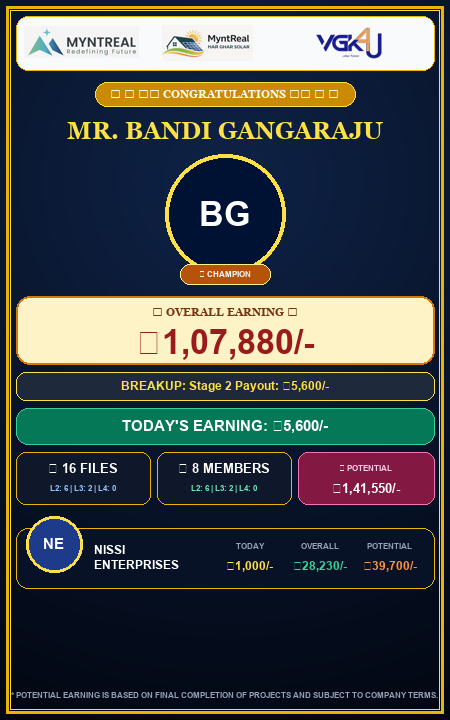
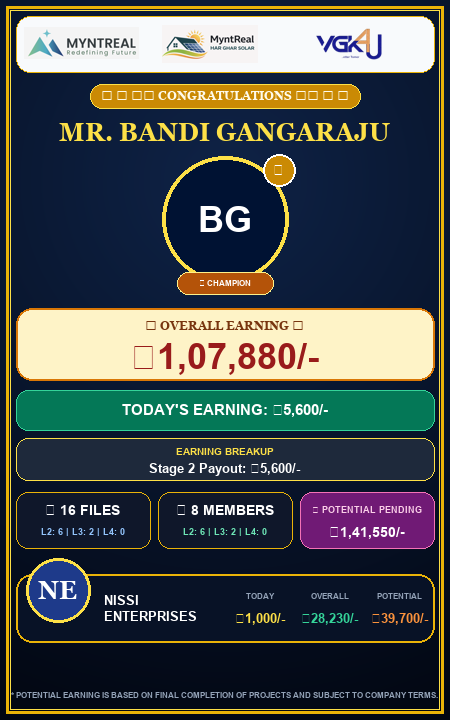
feat(poster): position Today Earning above Breakup with 2-line title/details layout, label POTENTIAL PENDING, enlarge Senior photo to 64px with bigger text, add 3D Champion Trophy badge, and eliminate empty bottom space

Changed region(s): [[0.0311, 0.275, 0.9644, 0.8861], [0.0622, 0.0306, 0.9333, 0.3361], [0.4356, 0.275, 0.56, 0.3361]]

diff --git a/MyntReal_Latest/frontend/staff_vgk_members.html b/MyntReal_Latest/frontend/staff_vgk_members.html
@@ -7273,44 +7273,8 @@ function _renderCommDetailTable(partnerId) {
               
               <div id="customColorsContainer" style="display:none;flex-direction:column;gap:6px;background:#f3f4f6;padding:8px;border-radius:6px;border:1px solid #e5e7eb">
                 <div style="display:flex;justify-content:space-between;align-items:center">
-                  <span style="font-size:10px;color:#374151">Canvas BG:</span>
-                  <input type="color" id="postColorBg" value="#0A0F1D" oninput="changeCustomColors()" style="border:none;width:32px;height:20px;cursor:pointer">
-                </div>
-                <div style="display:flex;justify-content:space-between;align-items:center">
-                  <span style="font-size:10px;color:#374151">Card BG:</span>
-                  <input type="color" id="postColorCard" value="#131B2E" oninput="changeCustomColors()" style="border:none;width:32px;height:20px;cursor:pointer">
-                </div>
-                <div style="display:flex;justify-content:space-between;align-items:center">
-                  <span style="font-size:10px;color:#374151">Text Color:</span>
-                  <input type="color" id="postColorText" value="#F8FAFC" oninput="changeCustomColors()" style="border:none;width:32px;height:20px;cursor:pointer">
-                </div>
-                <div style="display:flex;justify-content:space-between;align-items:center">
-                  <span style="font-size:10px;color:#374151">Accent/Gold:</span>
-                  <input type="color" id="postColorAccent" value="#fbbf24" oninput="changeCustomColors()" style="border:none;width:32px;height:20px;cursor:pointer">
-                </div>
-                <div style="display:flex;justify-content:space-between;align-items:center">
-                  <span style="font-size:10px;color:#374151">Border Gold:</span>
-                  <input type="color" id="postColorBorder" value="#d4af37" oninput="changeCustomColors()" style="border:none;width:32px;height:20px;cursor:pointer">
-                </div>
-              </div>
-              
-              <div>
-                <label style="font-size:10px;font-weight:600;color:#6b7280;display:block;margin-bottom:2px">IMAGES &amp; STYLING INSTRUCTIONS</label>
-                <textarea id="postImageInstructions" oninput="updatePoster()" style="width:100%;height:60px;padding:7px 9px;font-size:11.5px;border:1.5px solid #d1d5db;border-radius:6px;outline:none;resize:none" placeholder="e.g. Use transparent PNG photos. Recommended size: 1080x1920."></textarea>
-              </div>
-            </div>
-          </div>
-        </div>
-      </div>
-      
-      <!-- Right Pane: Live Poster Preview -->
-      <div style="flex:1;background:#131B2E;display:flex;align-items:center;justify-content:center;padding:24px;overflow:auto;position:relative">
-        <div id="posterSpinner" style="display:none;position:absolute;inset:0;background:rgba(0,0,0,0.6);z-index:10;align-items:center;justify-content:center;color:white;font-size:14px">
-          <div style="text-align:center"><i class="fas fa-circle-notch fa-spin fa-2x mb-2"></i><div>Analyzing and populating values…</div></div>
-        </div>
-        
-        <!-- Renderable Canvas Wrapper - Fresh Pure HTML/CSS Luxury Celebration Design with Fireworks, Actual Logos & Pop-Out Senior Avatar (450x720px) -->
-        <div id="posterCanvasWrapper" style="width:450px;height:720px;background:radial-gradient(circle at 50% 25%, #0f2347 0%, #061126 60%, #020610 100%);border:5px double #eab308;border-radius:20px;box-shadow:0 20px 60px rgba(0,0,0,0.9), 0 0 40px rgba(234,179,8,0.35);position:relative;box-sizing:border-box;color:#ffffff;font-family:'Segoe UI',Roboto,Helvetica,sans-serif;user-select:none;flex-shrink:0;padding:16px;display:flex;flex-direction:column;align-items:center;overflow:hidden">
+                  <span style="font-siz        <!-- Renderable Canvas Wrapper - Pristine Ultra-Professional Celebration Poster (450x720px) -->
+        <div id="posterCanvasWrapper" style="width:450px;height:720px;background:radial-gradient(circle at 50% 25%, #0f2347 0%, #061126 60%, #020610 100%);border:5px double #eab308;border-radius:20px;box-shadow:0 20px 60px rgba(0,0,0,0.9), 0 0 40px rgba(234,179,8,0.35);position:relative;box-sizing:border-box;color:#ffffff;font-family:'Segoe UI',Roboto,Helvetica,sans-serif;user-select:none;flex-shrink:0;padding:16px 18px;display:flex;flex-direction:column;align-items:center;overflow:hidden">
           
           <div id="prevName" style="display:none"></div>
           <div id="prevBonusDesc" style="display:none"></div>
@@ -7319,135 +7283,141 @@ function _renderCommDetailTable(partnerId) {
           <div id="prevImageInstructions" style="display:none"></div>
 
           <!-- Background Sparkle Particles Overlay -->
-          <div style="position:absolute;inset:0;background-image:radial-gradient(2px 2px at 20px 30px, #ffd700, transparent), radial-gradient(2px 2px at 40px 70px, #ffffff, transparent), radial-gradient(1.5px 1.5px at 90px 40px, #fde047, transparent), radial-gradient(2px 2px at 160px 120px, #ffffff, transparent), radial-gradient(1.5px 1.5px at 230px 80px, #ffd700, transparent), radial-gradient(2px 2px at 310px 50px, #ffffff, transparent), radial-gradient(2px 2px at 380px 110px, #fde047, transparent), radial-gradient(1.5px 1.5px at 420px 30px, #ffffff, transparent), radial-gradient(2px 2px at 50px 250px, #ffd700, transparent), radial-gradient(2px 2px at 400px 280px, #ffffff, transparent), radial-gradient(1.5px 1.5px at 30px 500px, #fde047, transparent), radial-gradient(2px 2px at 420px 520px, #ffffff, transparent);opacity:0.6;pointer-events:none;z-index:1"></div>
+          <div style="position:absolute;inset:0;background-image:radial-gradient(2px 2px at 20px 30px, #ffd700, transparent), radial-gradient(2px 2px at 40px 70px, #ffffff, transparent), radial-gradient(1.5px 1.5px at 90px 40px, #fde047, transparent), radial-gradient(2px 2px at 160px 120px, #ffffff, transparent), radial-gradient(1.5px 1.5px at 230px 80px, #ffd700, transparent), radial-gradient(2px 2px at 310px 50px, #ffffff, transparent), radial-gradient(2px 2px at 380px 110px, #fde047, transparent), radial-gradient(1.5px 1.5px at 420px 30px, #ffffff, transparent), radial-gradient(2px 2px at 50px 250px, #ffd700, transparent), radial-gradient(2px 2px at 400px 280px, #ffffff, transparent), radial-gradient(1.5px 1.5px at 30px 500px, #fde047, transparent), radial-gradient(2px 2px at 420px 520px, #ffffff, transparent);opacity:0.65;pointer-events:none;z-index:1"></div>
 
-          <!-- Firework Bursts (SVG Fireworks Graphics) -->
-          <svg style="position:absolute;top:18px;left:8px;width:75px;height:75px;pointer-events:none;z-index:1" viewBox="0 0 100 100">
-            <g stroke="#fde047" stroke-width="2.5" stroke-linecap="round">
-              <line x1="50" y1="10" x2="50" y2="30"/><line x1="50" y1="70" x2="50" y2="90"/>
-              <line x1="10" y1="50" x2="30" y2="50"/><line x1="70" y1="50" x2="90" y2="50"/>
-              <line x1="22" y1="22" x2="36" y2="36"/><line x1="64" y1="64" x2="78" y2="78"/>
-              <line x1="22" y1="78" x2="36" y2="64"/><line x1="64" y1="36" x2="78" y2="22"/>
+          <!-- Prominent Firework Bursts (SVG Fireworks Graphics flanking Photo & Header) -->
+          <svg style="position:absolute;top:75px;left:6px;width:90px;height:90px;pointer-events:none;z-index:1;opacity:0.9" viewBox="0 0 100 100">
+            <g stroke="#fde047" stroke-width="2.8" stroke-linecap="round">
+              <line x1="50" y1="5" x2="50" y2="28"/><line x1="50" y1="72" x2="50" y2="95"/>
+              <line x1="5" y1="50" x2="28" y2="50"/><line x1="72" y1="50" x2="95" y2="50"/>
+              <line x1="18" y1="18" x2="34" y2="34"/><line x1="66" y1="66" x2="82" y2="82"/>
+              <line x1="18" y1="82" x2="34" y2="66"/><line x1="66" y1="34" x2="82" y2="18"/>
             </g>
-            <circle cx="50" cy="50" r="5" fill="#eab308"/>
-            <circle cx="50" cy="18" r="3" fill="#ffffff"/><circle cx="50" cy="82" r="3" fill="#ffffff"/>
-            <circle cx="18" cy="50" r="3" fill="#ffffff"/><circle cx="82" cy="50" r="3" fill="#ffffff"/>
+            <circle cx="50" cy="50" r="6" fill="#eab308"/>
+            <circle cx="50" cy="14" r="3.5" fill="#ffffff"/><circle cx="50" cy="86" r="3.5" fill="#ffffff"/>
+            <circle cx="14" cy="50" r="3.5" fill="#ffffff"/><circle cx="86" cy="50" r="3.5" fill="#ffffff"/>
           </svg>
 
-          <svg style="position:absolute;top:18px;right:8px;width:75px;height:75px;pointer-events:none;z-index:1" viewBox="0 0 100 100">
-            <g stroke="#fbbf24" stroke-width="2.5" stroke-linecap="round">
-              <line x1="50" y1="10" x2="50" y2="30"/><line x1="50" y1="70" x2="50" y2="90"/>
-              <line x1="10" y1="50" x2="30" y2="50"/><line x1="70" y1="50" x2="90" y2="50"/>
-              <line x1="22" y1="22" x2="36" y2="36"/><line x1="64" y1="64" x2="78" y2="78"/>
-              <line x1="22" y1="78" x2="36" y2="64"/><line x1="64" y1="36" x2="78" y2="22"/>
+          <svg style="position:absolute;top:75px;right:6px;width:90px;height:90px;pointer-events:none;z-index:1;opacity:0.9" viewBox="0 0 100 100">
+            <g stroke="#fbbf24" stroke-width="2.8" stroke-linecap="round">
+              <line x1="50" y1="5" x2="50" y2="28"/><line x1="50" y1="72" x2="50" y2="95"/>
+              <line x1="5" y1="50" x2="28" y2="50"/><line x1="72" y1="50" x2="95" y2="50"/>
+              <line x1="18" y1="18" x2="34" y2="34"/><line x1="66" y1="66" x2="82" y2="82"/>
+              <line x1="18" y1="82" x2="34" y2="66"/><line x1="66" y1="34" x2="82" y2="18"/>
             </g>
-            <circle cx="50" cy="50" r="5" fill="#f59e0b"/>
-            <circle cx="50" cy="18" r="3" fill="#ffffff"/><circle cx="50" cy="82" r="3" fill="#ffffff"/>
-            <circle cx="18" cy="50" r="3" fill="#ffffff"/><circle cx="82" cy="50" r="3" fill="#ffffff"/>
+            <circle cx="50" cy="50" r="6" fill="#f59e0b"/>
+            <circle cx="50" cy="14" r="3.5" fill="#ffffff"/><circle cx="50" cy="86" r="3.5" fill="#ffffff"/>
+            <circle cx="14" cy="50" r="3.5" fill="#ffffff"/><circle cx="86" cy="50" r="3.5" fill="#ffffff"/>
           </svg>
 
           <!-- Content Layer -->
           <div style="position:relative;z-index:2;width:100%;display:flex;flex-direction:column;align-items:center;height:100%">
             
-            <!-- 1. Large Header Bar with Actual Logos (Left: Myntreal, Middle: Har Ghar Solar, Right: VGK4U) -->
-            <div style="width:100%;height:54px;background:linear-gradient(135deg, rgba(255,255,255,0.98), rgba(248,250,252,0.94));border:1.5px solid rgba(234,179,8,0.7);border-radius:12px;padding:4px 12px;display:flex;justify-content:space-between;align-items:center;margin-bottom:10px;box-shadow:0 4px 15px rgba(0,0,0,0.35)">
+            <!-- 1. Header Bar with 3 Actual Logos (Left: Myntreal, Middle: Har Ghar Solar, Right: VGK4U) -->
+            <div style="width:100%;height:56px;background:linear-gradient(135deg, rgba(255,255,255,0.98), rgba(248,250,252,0.95));border:1.5px solid rgba(234,179,8,0.75);border-radius:14px;padding:4px 14px;display:flex;justify-content:space-between;align-items:center;margin-bottom:10px;box-shadow:0 4px 18px rgba(0,0,0,0.4)">
               <img src="/assets/logos/myntreal_logo_new.png" style="height:34px;max-width:115px;object-fit:contain" alt="MYNTREAL">
-              <img src="/assets/logos/hgs-logo.png" style="height:36px;max-width:125px;object-fit:contain" alt="HAR GHAR SOLAR">
+              <img src="/assets/logos/hgs-logo.png" style="height:38px;max-width:125px;object-fit:contain" alt="HAR GHAR SOLAR">
               <img src="/assets/logos/vgk4u-logo.png" style="height:34px;max-width:105px;object-fit:contain" alt="VGK4U">
             </div>
 
             <!-- 2. Congratulations Ribbon Badge with Celebration Streamers -->
-            <div style="background:linear-gradient(135deg, #854d0e 0%, #ca8a04 50%, #854d0e 100%);border:1.5px solid #fde047;color:#fffbeb;font-family:Georgia,serif;font-size:11.5px;font-weight:900;letter-spacing:1.8px;padding:4px 18px;border-radius:30px;box-shadow:0 4px 14px rgba(202,138,4,0.45);margin-bottom:8px;text-transform:uppercase">🎉 👑 ★★ CONGRATULATIONS ★★ 👑 🎉</div>
+            <div style="background:linear-gradient(135deg, #854d0e 0%, #ca8a04 50%, #854d0e 100%);border:1.5px solid #fde047;color:#fffbeb;font-family:Georgia,serif;font-size:12px;font-weight:900;letter-spacing:2px;padding:4.5px 22px;border-radius:30px;box-shadow:0 4px 15px rgba(202,138,4,0.5);margin-bottom:8px;text-transform:uppercase">🎉 👑 ★★ CONGRATULATIONS ★★ 👑 🎉</div>
 
             <!-- 3. Member Name (3D Gold Typography) -->
-            <div style="width:100%;text-align:center;margin-bottom:8px">
-              <div id="prevSubtitle" style="font-size:25px;font-weight:950;background:linear-gradient(180deg,#ffffff 0%,#fef08a 45%,#eab308 100%);-webkit-background-clip:text;-webkit-text-fill-color:transparent;filter:drop-shadow(0 2px 8px rgba(234,179,8,0.6));font-family:Georgia,serif;text-transform:uppercase;letter-spacing:0.8px;line-height:1.2">MR. BANDI GANGARAJU</div>
+            <div style="width:100%;text-align:center;margin-bottom:10px">
+              <div id="prevSubtitle" style="font-size:26px;font-weight:950;background:linear-gradient(180deg,#ffffff 0%,#fef08a 45%,#eab308 100%);-webkit-background-clip:text;-webkit-text-fill-color:transparent;filter:drop-shadow(0 2px 8px rgba(234,179,8,0.65));font-family:Georgia,serif;text-transform:uppercase;letter-spacing:0.8px;line-height:1.2">MR. BANDI GANGARAJU</div>
             </div>
 
-            <!-- 4. Member Profile Photo inside Golden Wreath Ring -->
-            <div style="position:relative;width:120px;height:120px;margin-bottom:12px">
-              <div style="width:120px;height:120px;border-radius:50%;border:4px solid #fde047;overflow:hidden;background:#001233;box-shadow:0 0 28px rgba(234,179,8,0.7);display:flex;align-items:center;justify-content:center">
+            <!-- 4. Member Profile Photo inside Golden Wreath Ring with Champion Trophy -->
+            <div style="position:relative;width:126px;height:126px;margin-bottom:14px">
+              <div style="width:126px;height:126px;border-radius:50%;border:4px solid #fde047;overflow:hidden;background:#001233;box-shadow:0 0 30px rgba(234,179,8,0.75);display:flex;align-items:center;justify-content:center">
                 <img id="prevImg" src="" crossorigin="anonymous" style="width:100%;height:100%;object-fit:cover;object-position:center 20%;display:none">
-                <div id="prevAvatar" style="width:100%;height:100%;display:flex;align-items:center;justify-content:center;background:linear-gradient(135deg,#1d4ed8,#7c3aed);color:white;font-size:38px;font-weight:900">BG</div>
+                <div id="prevAvatar" style="width:100%;height:100%;display:flex;align-items:center;justify-content:center;background:linear-gradient(135deg,#1d4ed8,#7c3aed);color:white;font-size:40px;font-weight:900">BG</div>
               </div>
-              <div style="position:absolute;bottom:-7px;left:50%;transform:translateX(-50%);background:linear-gradient(135deg,#b45309,#f59e0b,#b45309);border:1px solid #fef08a;color:#ffffff;font-size:9.5px;font-weight:900;padding:2px 14px;border-radius:12px;letter-spacing:1.2px;white-space:nowrap;box-shadow:0 3px 8px rgba(0,0,0,0.5)">🏆 CHAMPION</div>
+
+              <!-- 3D Champion Trophy Badge Overlay on Top-Right -->
+              <div style="position:absolute;top:-4px;right:-8px;background:radial-gradient(circle,#fef08a,#ca8a04);border:1.5px solid #ffffff;border-radius:50%;width:34px;height:34px;display:flex;align-items:center;justify-content:center;box-shadow:0 3px 10px rgba(0,0,0,0.6);font-size:18px">🏆</div>
+
+              <!-- Champion Pill at Bottom -->
+              <div style="position:absolute;bottom:-7px;left:50%;transform:translateX(-50%);background:linear-gradient(135deg,#b45309,#f59e0b,#b45309);border:1px solid #fef08a;color:#ffffff;font-size:9.5px;font-weight:900;padding:2.5px 16px;border-radius:12px;letter-spacing:1.2px;white-space:nowrap;box-shadow:0 3px 10px rgba(0,0,0,0.6)">🏆 CHAMPION</div>
             </div>
 
             <!-- 5. Overall Earning Plaque (Centerpiece) -->
-            <div style="width:100%;background:linear-gradient(135deg, #fffbeb 0%, #fef3c7 40%, #fde047 100%);border:2.5px solid #d97706;border-radius:14px;padding:8px 14px;text-align:center;margin-bottom:8px;box-shadow:0 8px 25px rgba(0,0,0,0.4), inset 0 0 10px rgba(255,255,255,0.8)">
-              <div style="color:#78350f;font-size:10.5px;font-weight:900;letter-spacing:1.5px;text-transform:uppercase;margin-bottom:1px">★ OVERALL EARNING ★</div>
-              <div id="prevHighlight" style="color:#991b1b;font-size:34px;font-weight:950;line-height:1;text-shadow:0 1px 2px rgba(255,255,255,0.9);letter-spacing:-0.5px">₹1,07,880/-</div>
+            <div style="width:100%;background:linear-gradient(135deg, #fffbeb 0%, #fef3c7 40%, #fde047 100%);border:2.5px solid #d97706;border-radius:16px;padding:9px 16px;text-align:center;margin-bottom:10px;box-shadow:0 8px 25px rgba(0,0,0,0.45), inset 0 0 10px rgba(255,255,255,0.85)">
+              <div style="color:#78350f;font-size:11px;font-weight:900;letter-spacing:1.5px;text-transform:uppercase;margin-bottom:2px">★ OVERALL EARNING ★</div>
+              <div id="prevHighlight" style="color:#991b1b;font-size:36px;font-weight:950;line-height:1;text-shadow:0 1px 2px rgba(255,255,255,0.9);letter-spacing:-0.5px">₹1,07,880/-</div>
             </div>
 
-            <!-- 6. Earning-Wise Breakup Section (Positioned ABOVE Today's Earning) -->
-            <div style="width:100%;background:rgba(254,240,138,0.12);border:1px dashed rgba(251,191,36,0.7);border-radius:10px;padding:4px 10px;margin-bottom:8px;text-align:center;display:flex;align-items:center;justify-content:center;gap:6px">
-              <span style="font-size:9px;font-weight:900;color:#fde047;text-transform:uppercase;letter-spacing:0.8px">BREAKUP:</span>
-              <span id="prevTodayPayout" style="font-size:11.5px;font-weight:900;color:#ffffff">Stage 2 Payout: ₹5,600/-</span>
+            <!-- 6. Today's Earning Banner Card (Moved ABOVE Breakup) -->
+            <div style="width:100%;background:linear-gradient(135deg, #064e3b 0%, #047857 50%, #065f46 100%);border:1.5px solid #34d399;border-radius:12px;padding:8px 14px;text-align:center;margin-bottom:8px;box-shadow:0 4px 16px rgba(4,120,87,0.45)">
+              <div style="font-size:15px;font-weight:950;color:#ffffff;text-transform:uppercase;letter-spacing:0.5px"><span id="prevTodayLabelText">Today's Earning</span>: <span id="prevTotalToday">₹5,600/-</span></div>
             </div>
 
-            <!-- 7. Today's Earning Banner Card -->
-            <div style="width:100%;background:linear-gradient(135deg, #064e3b 0%, #047857 50%, #065f46 100%);border:1.5px solid #34d399;border-radius:12px;padding:7px 12px;text-align:center;margin-bottom:10px;box-shadow:0 4px 15px rgba(4,120,87,0.4)">
-              <div style="font-size:14.5px;font-weight:900;color:#ffffff;text-transform:uppercase;letter-spacing:0.5px"><span id="prevTodayLabelText">Today's Earning</span>: <span id="prevTotalToday">₹5,600/-</span></div>
+            <!-- 7. Earning-Wise Breakup Section (Positioned BELOW Today's Earning, 2-Line Layout) -->
+            <div style="width:100%;background:rgba(254,240,138,0.12);border:1px dashed rgba(251,191,36,0.75);border-radius:12px;padding:6px 12px;margin-bottom:10px;text-align:center;display:flex;flex-direction:column;align-items:center;justify-content:center">
+              <div style="font-size:10px;font-weight:900;color:#fde047;text-transform:uppercase;letter-spacing:1px;margin-bottom:2px">EARNING BREAKUP</div>
+              <div id="prevTodayPayout" style="font-size:13px;font-weight:900;color:#ffffff">Stage 2 Payout: ₹5,600/-</div>
             </div>
 
-            <!-- 8. 3-Column Metrics Grid (FILES | MEMBERS | POTENTIAL VALUATION) -->
-            <div style="width:100%;display:grid;grid-template-columns:1fr 1fr 1.15fr;gap:7px;margin-bottom:10px">
+            <!-- 8. 3-Column Metrics Grid (FILES | MEMBERS | POTENTIAL PENDING) -->
+            <div style="width:100%;display:grid;grid-template-columns:1fr 1fr 1.15fr;gap:8px;margin-bottom:14px">
               <!-- Files Card -->
-              <div style="background:rgba(15,23,42,0.85);border:1.5px solid rgba(234,179,8,0.45);border-radius:12px;padding:7px 5px;text-align:center">
-                <div id="prevFiles" style="font-size:13px;font-weight:950;color:#ffffff;margin-bottom:1px">16 FILES</div>
-                <div id="prevTeamBreakupFiles" style="font-size:8px;font-weight:800;color:#93c5fd">L2: 6 | L3: 2 | L4: 0</div>
+              <div style="background:rgba(15,23,42,0.88);border:1.5px solid rgba(234,179,8,0.5);border-radius:12px;padding:8px 6px;text-align:center">
+                <div id="prevFiles" style="font-size:13.5px;font-weight:950;color:#ffffff;margin-bottom:2px">16 FILES</div>
+                <div id="prevTeamBreakupFiles" style="font-size:8.5px;font-weight:800;color:#93c5fd">L2: 6 | L3: 2 | L4: 0</div>
               </div>
               
               <!-- Members Card -->
-              <div style="background:rgba(15,23,42,0.85);border:1.5px solid rgba(234,179,8,0.45);border-radius:12px;padding:7px 5px;text-align:center">
-                <div id="prevOverall" style="font-size:13px;font-weight:950;color:#ffffff;margin-bottom:1px">8 MEMBERS</div>
-                <div id="prevTeamBreakup" style="font-size:8px;font-weight:800;color:#6ee7b7">L2: 6 | L3: 2 | L4: 0</div>
+              <div style="background:rgba(15,23,42,0.88);border:1.5px solid rgba(234,179,8,0.5);border-radius:12px;padding:8px 6px;text-align:center">
+                <div id="prevOverall" style="font-size:13.5px;font-weight:950;color:#ffffff;margin-bottom:2px">8 MEMBERS</div>
+                <div id="prevTeamBreakup" style="font-size:8.5px;font-weight:800;color:#6ee7b7">L2: 6 | L3: 2 | L4: 0</div>
               </div>
 
-              <!-- Potential Valuation Card (Placed beside Files & Members) -->
-              <div style="background:linear-gradient(135deg, rgba(112,26,117,0.85), rgba(131,24,67,0.85));border:1.5px solid #f472b6;border-radius:12px;padding:7px 5px;text-align:center">
-                <div style="font-size:8px;font-weight:900;color:#fbcfe8;text-transform:uppercase;letter-spacing:0.5px">💰 POTENTIAL</div>
-                <div id="prevPotential" style="font-size:13px;font-weight:950;color:#ffffff;margin-top:1px">₹1,41,550/-</div>
+              <!-- Potential Pending Card (Labeled POTENTIAL PENDING) -->
+              <div style="background:linear-gradient(135deg, rgba(112,26,117,0.88), rgba(131,24,67,0.88));border:1.5px solid #f472b6;border-radius:12px;padding:8px 6px;text-align:center">
+                <div style="font-size:8.5px;font-weight:900;color:#fbcfe8;text-transform:uppercase;letter-spacing:0.5px">💰 POTENTIAL PENDING</div>
+                <div id="prevPotential" style="font-size:13.5px;font-weight:950;color:#ffffff;margin-top:2px">₹1,41,550/-</div>
               </div>
             </div>
 
-            <!-- 9. Senior Referrer Card Row with Pop-Out Senior Avatar -->
-            <div id="prevSeniorRow" style="position:relative;width:100%;background:rgba(8,18,38,0.92);border:1.5px solid rgba(234,179,8,0.6);border-radius:14px;padding:9px 10px 9px 74px;display:flex;align-items:center;justify-content:space-between;margin-top:14px;margin-bottom:6px;min-height:60px;box-shadow:0 6px 20px rgba(0,0,0,0.5)">
+            <!-- 9. Senior Referrer Card Row with 64px Pop-Out Senior Avatar & Larger Typography -->
+            <div id="prevSeniorRow" style="position:relative;width:100%;background:rgba(8,18,38,0.95);border:1.5px solid rgba(234,179,8,0.65);border-radius:16px;padding:12px 12px 12px 86px;display:flex;align-items:center;justify-content:space-between;margin-top:16px;margin-bottom:12px;min-height:68px;box-shadow:0 8px 25px rgba(0,0,0,0.6)">
               
-              <!-- Pop-Out Senior Photo / Avatar Circle (56px x 56px overlapping top border) -->
-              <div style="position:absolute;top:-12px;left:10px;width:56px;height:56px;border-radius:50%;background:#1e3a8a;border:3px solid #fde047;box-shadow:0 4px 16px rgba(251,191,36,0.6);display:flex;align-items:center;justify-content:center;z-index:10;overflow:hidden">
+              <!-- Pop-Out Senior Photo / Avatar Circle (64px x 64px overlapping top border) -->
+              <div style="position:absolute;top:-14px;left:12px;width:64px;height:64px;border-radius:50%;background:#1e3a8a;border:3.5px solid #fde047;box-shadow:0 4px 18px rgba(251,191,36,0.7);display:flex;align-items:center;justify-content:center;z-index:10;overflow:hidden">
                 <img id="prevSeniorImg" src="" crossorigin="anonymous" style="width:100%;height:100%;object-fit:cover;display:none">
-                <div id="prevSeniorAvatar" style="width:100%;height:100%;display:flex;align-items:center;justify-content:center;background:linear-gradient(135deg,#1d4ed8,#7c3aed);color:white;font-size:18px;font-weight:900">NE</div>
+                <div id="prevSeniorAvatar" style="width:100%;height:100%;display:flex;align-items:center;justify-content:center;background:linear-gradient(135deg,#1d4ed8,#7c3aed);color:white;font-size:22px;font-weight:900">NE</div>
               </div>
 
-              <!-- Senior Name -->
-              <div id="prevSeniorName" style="font-size:10px;font-weight:900;color:#ffffff;line-height:1.2;max-width:92px;white-space:normal;word-break:break-word">NISSI ENTERPRISES</div>
+              <!-- Senior Name (Larger Text) -->
+              <div id="prevSeniorName" style="font-size:12.5px;font-weight:950;color:#ffffff;line-height:1.25;max-width:105px;white-space:normal;word-break:break-word">NISSI ENTERPRISES</div>
 
-              <!-- Senior 3 Data Columns -->
-              <div style="display:flex;gap:10px">
+              <!-- Senior 3 Data Columns (Larger Text) -->
+              <div style="display:flex;gap:12px">
                 <div style="text-align:center">
-                  <div style="font-size:7px;font-weight:700;color:#94a3b8;text-transform:uppercase">Today</div>
-                  <div id="prevSeniorToday" style="font-size:11.5px;font-weight:900;color:#fde047">₹1,000/-</div>
+                  <div style="font-size:7.5px;font-weight:700;color:#94a3b8;text-transform:uppercase">Today</div>
+                  <div id="prevSeniorToday" style="font-size:13px;font-weight:950;color:#fde047">₹1,000/-</div>
                 </div>
                 <div style="text-align:center">
-                  <div style="font-size:7px;font-weight:700;color:#94a3b8;text-transform:uppercase">Overall</div>
-                  <div id="prevSeniorEarning" style="font-size:11.5px;font-weight:900;color:#34d399">₹28,230/-</div>
+                  <div style="font-size:7.5px;font-weight:700;color:#94a3b8;text-transform:uppercase">Overall</div>
+                  <div id="prevSeniorEarning" style="font-size:13px;font-weight:950;color:#34d399">₹28,230/-</div>
                 </div>
                 <div style="text-align:center">
-                  <div style="font-size:7px;font-weight:700;color:#94a3b8;text-transform:uppercase">Potential</div>
-                  <div id="prevSeniorPotential" style="font-size:11.5px;font-weight:900;color:#fb923c">₹39,700/-</div>
+                  <div style="font-size:7.5px;font-weight:700;color:#94a3b8;text-transform:uppercase">Potential</div>
+                  <div id="prevSeniorPotential" style="font-size:13px;font-weight:950;color:#fb923c">₹39,700/-</div>
                 </div>
               </div>
 
             </div>
 
-            <!-- 10. Footer Terms -->
-            <div style="font-size:7.5px;color:#94a3b8;text-align:center;letter-spacing:0.3px;margin-top:auto">
+            <!-- 10. Footer Terms (Positioned at bottom with perfect spacing) -->
+            <div style="font-size:8px;color:#94a3b8;text-align:center;letter-spacing:0.3px;margin-top:auto;padding-bottom:4px">
               * POTENTIAL EARNING IS BASED ON FINAL COMPLETION OF PROJECTS AND SUBJECT TO COMPANY TERMS.
             </div>
 
           </div>
         </div>
+      </div>
       </div>
     </div>
     <!-- Footer actions -->
